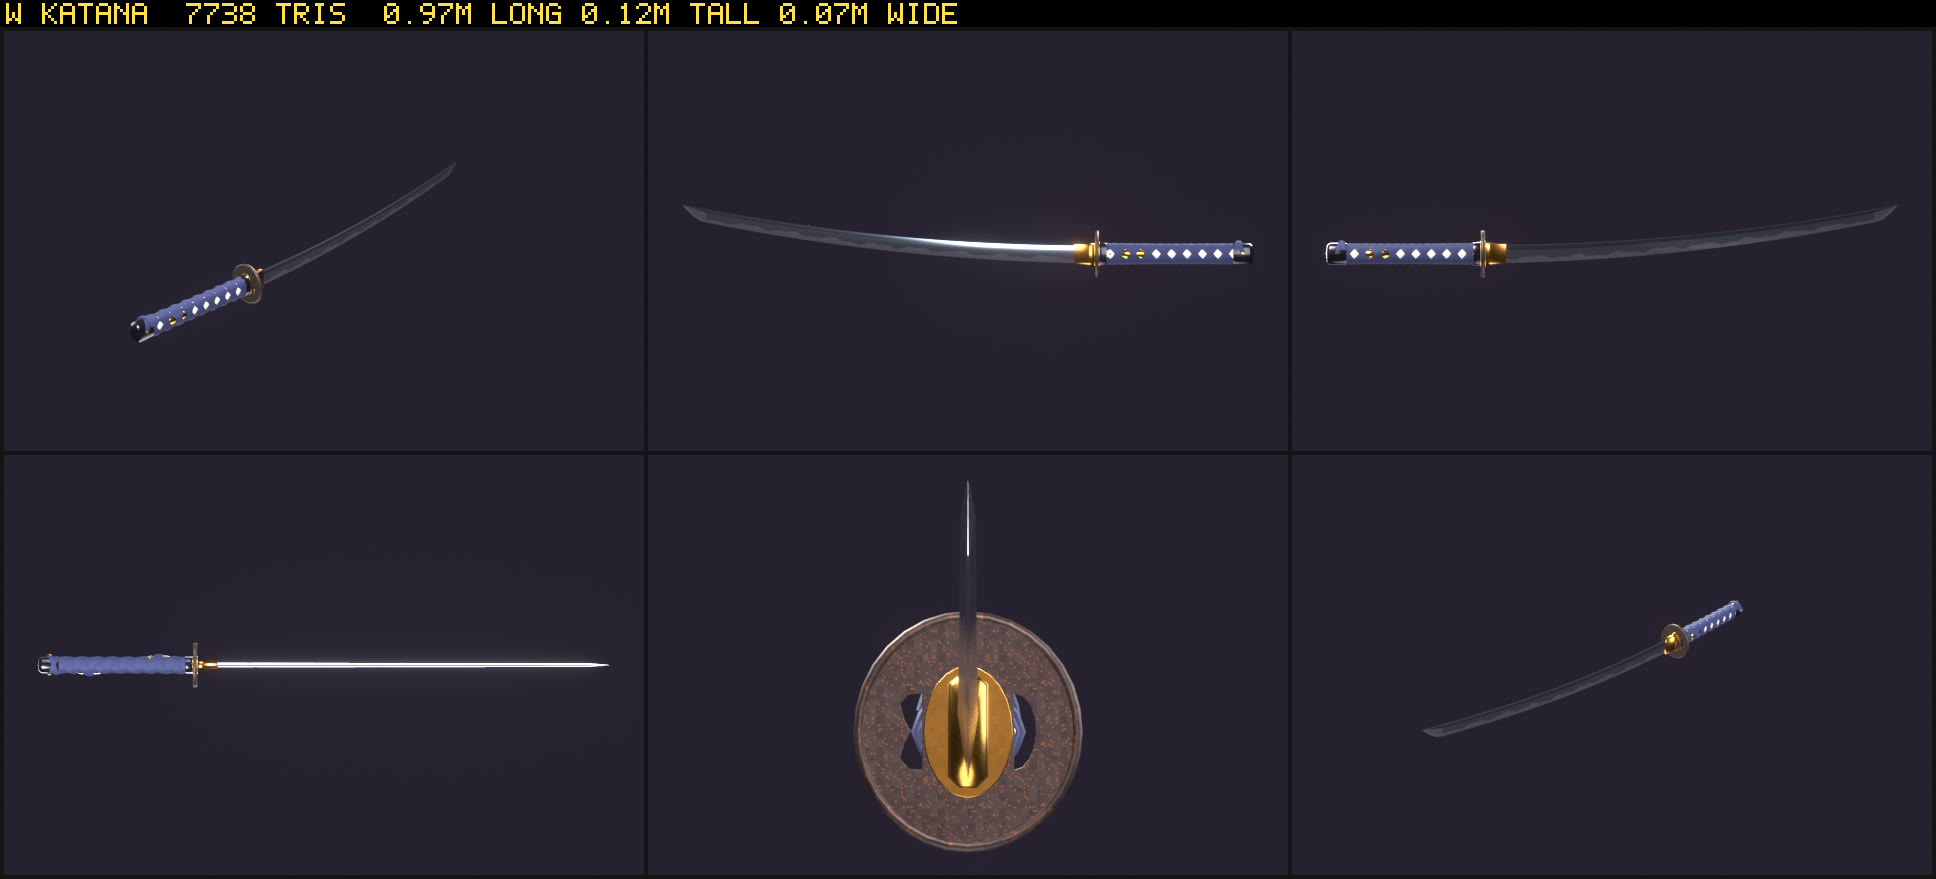
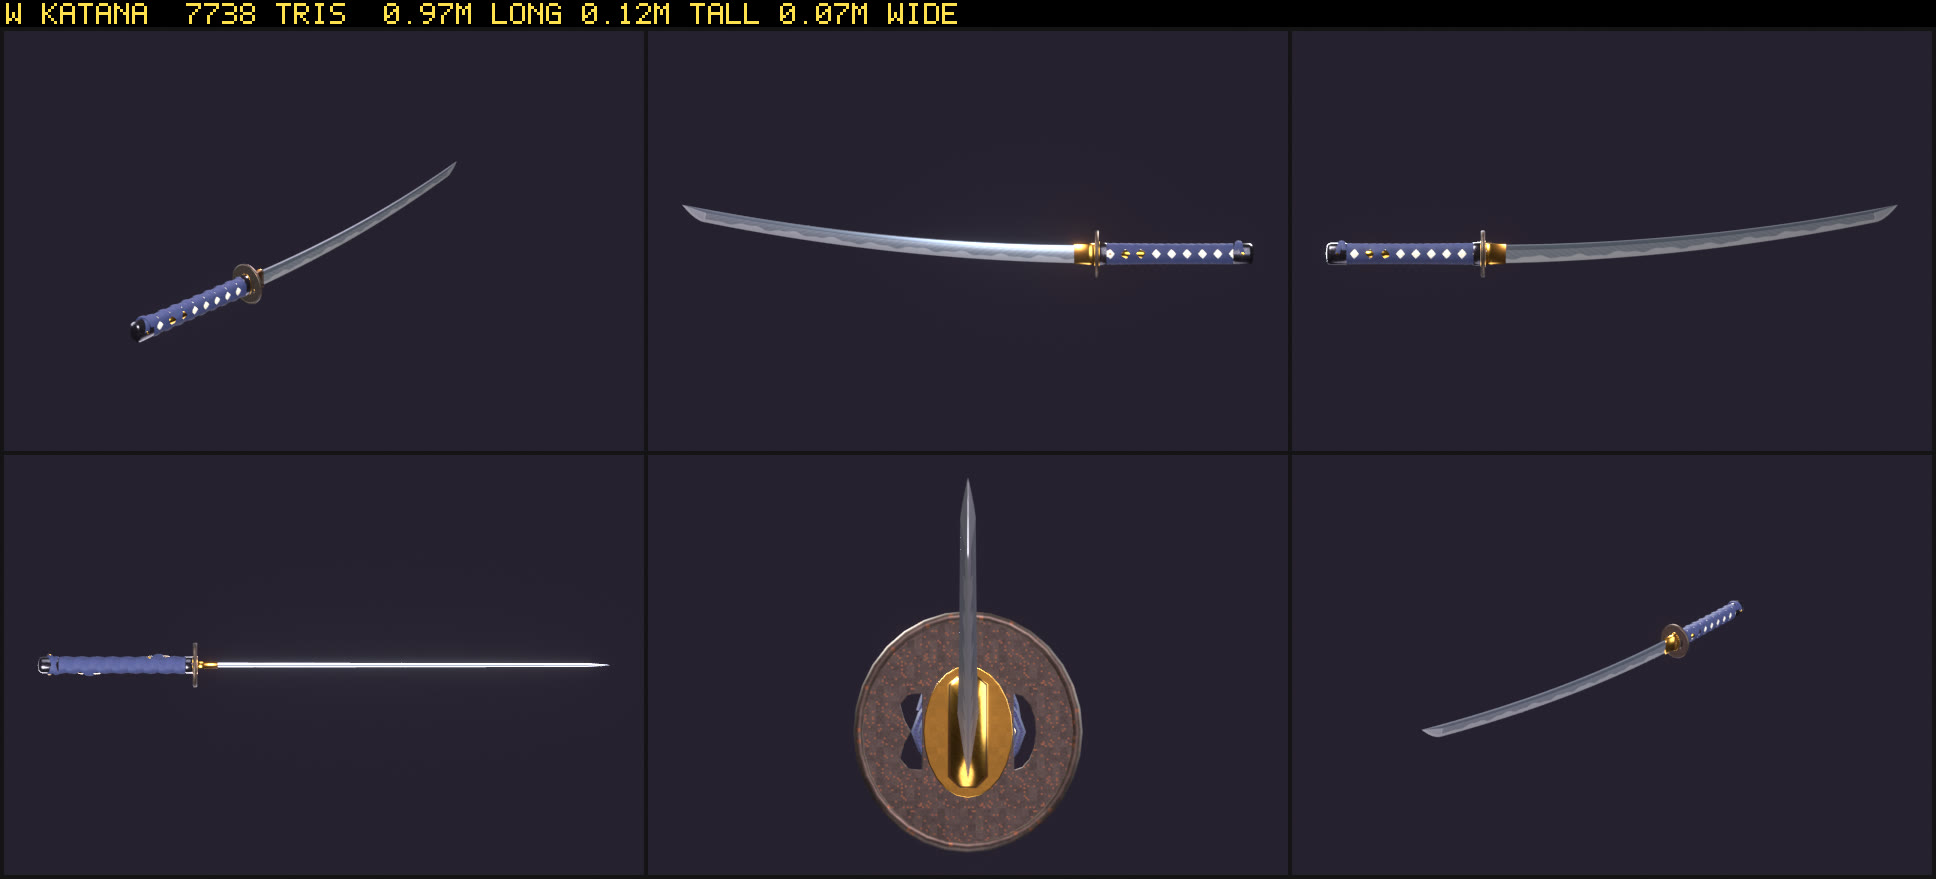
Katana steel keeps a little of its own colour so the hamon reads in any light; docs list the three swords
Claude-Session: https://claude.ai/code/session_011tKQCrFseJjmPmC88Sb2bs

diff --git a/tools/blender/make_katanas.py b/tools/blender/make_katanas.py
@@ -138,7 +138,8 @@ def katana_blade(z_origin, name, pre='kt'):
                     vb = min(vks - 0.06, 0.0042 / W)
                     c = HAM if v < vb else NAR if v < vks else SJI if v < 0.94 else MUNE
                 px[row, col] = c * (0.985 + 0.03 * r.random())
-    bm_ = mat(pre + '_blade', 0xffffff, rough=0.1, metal=0.96, tex=tex_canvas(pre + '_blade_t', 512, 64, draw))
+    # (mostly metal, not all: full metal goes dark on the faces turned from the light and the hamon is lost)
+    bm_ = mat(pre + '_blade', 0xffffff, rough=0.18, metal=0.8, tex=tex_canvas(pre + '_blade_t', 512, 64, draw))
     o = ring_solid(rings, uvs, bm_, pre + '_blade', caps=(True, False), angle=24)
     node = part([o], name, pivot=(0, 0, z_origin))
     return node, -TIP[0], (TIP[1], z_origin + TIP[0])

diff --git a/tools/blender/README.md b/tools/blender/README.md
@@ -72,6 +72,7 @@ Optional size squeeze (not needed, files are 70-600 KB): `npx @gltf-transform/cl
 | `make_knife_keycard.py` | `w_knife_keycard.glb` | ☺ CORP ID badge x1.2 on a lobster claw, the lanyard wound into the grip (loop + clasp off the butt), bottom edge ground sharp |
 | `make_knife_fish.py` | `w_knife_fish.glb` | frozen Atlantic mackerel x1.3 held by the tail stock, frost + ice lumps, curled mid-flop, FRESH sticker |
 | `make_knives.py` + `bladekit.py` | `w_knife.glb`, `w_knife_kitchen.glb`, `w_knife_bowie.glb`, `w_knife_cleaver.glb`, `w_knife_switch.glb`, `w_knife_karambit.glb`, `w_knife_butterfly.glb` | the Knife and its six blade skins, each the same real knife as its code model in `public/js/blades/` (same measurements, same place in the hand): ground bevels, fullers, swedges and a square ricasso as real geometry, painted blade skins. Moving parts are their own nodes with meta hooks: `flipBlade` (the switchblade's blade on its pivot), `handles` (the butterfly's safe + bite handles on the pivot), `pivot` (the karambit's ring centre). `--only knife_bowie` builds one. `bladekit.py` = the blade builder (`blade()`, `paint()`, `loft_loops()`, `rivet()`, `stud()`, `uvb()`) |
+| `make_katanas.py` | `w_katana.glb`, `w_katana_shirasaya.glb`, `w_katana_bokken.glb` | the Katana and its two sword skins, each the same sword as its code model in `public/js/blades/`. The blade is its own node (`katBlade`, origin at the guard's front face, `katLen`) so it grows with kills; the habaki / tsubadome that hide its root sit outside it. Katana: shinogi ridge, peaked mune, painted hamon + boshi, filed habaki, iron tsuba with both hitsu-ana and a rounded rim, ray skin under a cord wrap with thickness, menuki, mekugi, shitodome. Shirasaya: the same blade in a plain honoki handle. Bokken: one piece of red oak, plastic guard, rubber keeper. `--only katana_bokken` builds one |
 | `make_katana_skins.py` | `w_katana_baguette.glb`, `w_katana_neon.glb` | katana skins on the code katana's layout; the blade is its own node (`katBlade`, origin at the guard face, `katLen`) so it grows with kills. Baguette (scored, bitten, cheese-box tsuba, twine ito); Neon Tube (glowing tube in glass, heatsink tsuba, glowing circuit ito, cord hanging out the back) |
 | `make_bread_sliced.py` | `w_bread_sliced.glb` | FAMILY SIZE sliced loaf (42 slices) in a polka-dot bag clear on top, twisted neck = handle, twist tie |
 | `make_slipper_flipflop.py` | `w_slipper_flipflop.glb`, `pj_slipper_flipflop.glb` | beach flip-flop, real size, worn foot imprint, SALE tag, gum underneath; thrown x1.6 |

diff --git a/docs/blender/INVENTORY.md b/docs/blender/INVENTORY.md
@@ -14,7 +14,7 @@ How this was counted:
 
 | | Blender today | Still code |
 |---|---|---|
-| Weapons | 42 base guns + 27 skins (`w_*.glb`, 95 files) | shredder, Scales of Justice, Blood Cross, katanas, 3 skins |
+| Weapons | 42 base guns + 27 skins (`w_*.glb`, 95 files) | shredder, Scales of Justice, Blood Cross, 3 skins |
 | Projectiles | 16 (`pj_*.glb`) | tennis ball, nails, marbles |
 | Gear and streaks | 32 (`x_*.glb`) | grapple hooks, shield bubble, black hole, medkit pickups, supply crates |
 | Map props | 45 kinds in PR #71 (not merged yet), 10 on main | ~6,400 boxes of one-off set pieces |
@@ -142,7 +142,6 @@ gameplay lanes are changing bodies right now (dismemberment, body sliders), so c
 | Shredder (+ chipper skin) | `models.js`:285 / 929 | animated teeth |
 | Scales of Justice (+ kangaroo skin) | `models.js`:416 / 1100 | |
 | Blood Cross finger gun (+ shadow skin) | `models.js`:1198 | a hand: goes with the hands work |
-| katanas (3 code blades) | `public/js/blades/` | the knives are Blender now (`make_knives.py`); the katana's blade must stay its own stretching node |
 | skins: staple gun, ball machine, basket | `primmodels.js`:177-209 | |
 | grapple hooks (8 looks) | `grapple.js`:204 | ropes stay code |
 | shield bubble, black hole, medkit pickups | `main.js`:1453, `models.js`:1924, `econ3d.js`:306 | their `x_*.glb` exist but only draw the icons |
